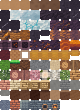
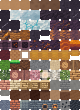
Carvão mineral do Orvalis pela Minecraft Wiki (auditoria #34, ADR 0122, v0.189.0)
Aprovado pelo dono do produto: minério de carvão na pedra (gerador do Orvalis v2, veios da
Wiki adaptados), Carvão e Bloco de Carvão com combustível de 80 s e 800 s, receitas e Tocha com
Carvão. O minério só solta Carvão com picareta e não tem item próprio.

Claude-Session: https://claude.ai/code/session_01KGdgoniDf5SwPMM31qtkm2

Changed region(s): [[0.75, 0.9, 1.0, 1.0]]

diff --git a/src/titan/items.ts b/src/titan/items.ts
@@ -4,7 +4,7 @@ import { BLOCK_NAMES, isCarpentry, isMarco, isPanel, isWorkbench, T } from './vo
  * Itens do Titã (ADR 0040). O id é o índice do sprite no atlas da hotbar + 1 (`render/art/titan.ts`): a ordem do atlas não depende da ordem dos espaços da barra.
  * Os quatro primeiros coincidem com os ids de bloco `T.SAND … T.FROST`.
  */
-export const Item = { SAND: 1, DAMP_SAND: 2, DARK_ROCK: 3, FROST: 4, ROCK_SHARD: 5, FROST_SHARD: 6, CAPSULE: 7, LANTERN: 8, WORKBENCH: 9, ICE_LENS: 10, EMBER: 11, GLASS_REED: 12, SLAB: 13, MARCO: 14, PAINEL: 15, NOZ: 16, COPPER_SHARD: 17, COPPER_INGOT: 18, DRY_REED: 19, STONE_PICK: 20, BRAZIER: 21, STONE_DAGGER: 22, COPPER_PICK: 23, COPPER_DAGGER: 24, PLATE: 25, CARAPACE: 26, RAW_MEAT: 27, COOKED_MEAT: 28, EMBER_BLOCK: 29, NOZ_TORRADA: 30, ESTEIRA: 31, ESCADA: 32, BAU: 33, CAMA: 34, BALDE: 35, BALDE_CHEIO: 36, BLOCO_JUNCO: 37, LAJE_JUNCO: 38, DEGRAU_JUNCO: 39, CADEIRA_JUNCO: 40, PORTA_JUNCO: 41, GRASS: 42, DIRT: 43, STONE: 44, BEACH: 45, LOG_OAK: 46, LEAVES_OAK: 47, LOG_CHERRY: 48, LEAVES_CHERRY: 49, LOG_BIRCH: 50, LEAVES_BIRCH: 51, TABUA_CARVALHO: 52, TABUA_CEREJEIRA: 53, TABUA_BETULA: 54, HASTE: 55, MESA_CARPINTARIA: 56, PEDRA_LISA: 57, TIJOLO_PEDRA: 58, LAJE_PEDRA: 59, DEGRAU_PEDRA: 60, MURETA_PEDRA: 61, TERRA_ARADA_SECA: 62, TERRA_ARADA_UMIDA: 63, CAMINHO_TERRA: 64, TERRA_INFERTIL: 65, BLOCO_ARGILA: 66, BLOCO_TIJOLOS: 67, BOLA_ARGILA: 68, TIJOLO: 69, PICARETA_MADEIRA: 70, PICARETA_PEDRA: 71, MACHADO_MADEIRA: 72, MACHADO_PEDRA: 73, PA_MADEIRA: 74, PA_PEDRA: 75, ENXADA_MADEIRA: 76, ENXADA_PEDRA: 77, SEMENTE_TRIGO: 78, TRIGO: 79, CENOURA: 80, BATATA: 81, TOMATE: 82, FORNALHA: 83, CARVAO_VEGETAL: 84, TOCHA: 85 } as const;
+export const Item = { SAND: 1, DAMP_SAND: 2, DARK_ROCK: 3, FROST: 4, ROCK_SHARD: 5, FROST_SHARD: 6, CAPSULE: 7, LANTERN: 8, WORKBENCH: 9, ICE_LENS: 10, EMBER: 11, GLASS_REED: 12, SLAB: 13, MARCO: 14, PAINEL: 15, NOZ: 16, COPPER_SHARD: 17, COPPER_INGOT: 18, DRY_REED: 19, STONE_PICK: 20, BRAZIER: 21, STONE_DAGGER: 22, COPPER_PICK: 23, COPPER_DAGGER: 24, PLATE: 25, CARAPACE: 26, RAW_MEAT: 27, COOKED_MEAT: 28, EMBER_BLOCK: 29, NOZ_TORRADA: 30, ESTEIRA: 31, ESCADA: 32, BAU: 33, CAMA: 34, BALDE: 35, BALDE_CHEIO: 36, BLOCO_JUNCO: 37, LAJE_JUNCO: 38, DEGRAU_JUNCO: 39, CADEIRA_JUNCO: 40, PORTA_JUNCO: 41, GRASS: 42, DIRT: 43, STONE: 44, BEACH: 45, LOG_OAK: 46, LEAVES_OAK: 47, LOG_CHERRY: 48, LEAVES_CHERRY: 49, LOG_BIRCH: 50, LEAVES_BIRCH: 51, TABUA_CARVALHO: 52, TABUA_CEREJEIRA: 53, TABUA_BETULA: 54, HASTE: 55, MESA_CARPINTARIA: 56, PEDRA_LISA: 57, TIJOLO_PEDRA: 58, LAJE_PEDRA: 59, DEGRAU_PEDRA: 60, MURETA_PEDRA: 61, TERRA_ARADA_SECA: 62, TERRA_ARADA_UMIDA: 63, CAMINHO_TERRA: 64, TERRA_INFERTIL: 65, BLOCO_ARGILA: 66, BLOCO_TIJOLOS: 67, BOLA_ARGILA: 68, TIJOLO: 69, PICARETA_MADEIRA: 70, PICARETA_PEDRA: 71, MACHADO_MADEIRA: 72, MACHADO_PEDRA: 73, PA_MADEIRA: 74, PA_PEDRA: 75, ENXADA_MADEIRA: 76, ENXADA_PEDRA: 77, SEMENTE_TRIGO: 78, TRIGO: 79, CENOURA: 80, BATATA: 81, TOMATE: 82, FORNALHA: 83, CARVAO_VEGETAL: 84, TOCHA: 85, CARVAO: 87, BLOCO_CARVAO: 88 } as const;
 export type ItemId = (typeof Item)[keyof typeof Item];
 
 export const ITEM_NAMES: Record<number, string> = {
@@ -12,19 +12,19 @@ export const ITEM_NAMES: Record<number, string> = {
   5: 'Fragmento de rocha', 6: 'Fragmento de gelo', 7: 'Cápsula de luz', 8: 'Lanterna da margem', 9: 'Mesa de Trabalho', 10: 'Lente de Gelo', 11: 'Brasa de âmbar', 12: 'Junco de vidro', 13: 'Laje de rocha', 14: 'Marco de Margem', 15: 'Painel de Junco', 16: 'Noz de Duna', 17: 'Fragmento de Cobre de Duna', 18: 'Lingote de Cobre de Duna', 19: 'Haste Seca de Junco', 20: 'Picareta de Rocha', 21: 'Braseiro de Rocha', 22: 'Adaga de Rocha', 23: 'Picareta de Cobre', 24: 'Adaga de Cobre', 25: 'Placa de Carapaça', 26: 'Revestimento de Carapaça', 27: 'Carne Crua de Farejador', 28: 'Carne Assada de Farejador', 29: 'Bloco de Âmbar Compactado', 30: 'Noz Torrada', 31: 'Esteira de Junco', 32: 'Escada de Junco', 33: 'Baú de Rocha e Junco', 34: 'Cama de Junco', 35: 'Balde de Cobre', 36: 'Balde de Cobre (cheio)', 37: 'Bloco de Junco', 38: 'Laje de Junco', 39: 'Degrau de Junco', 40: 'Cadeira de Junco', 41: 'Porta de Junco',
 };
 /** Itens-bloco do Orvalis em voxel (ADR 0105, ids 42–51): o item é o próprio bloco (mesma ordem de `T.GRASS … T.LEAVES_BIRCH`). */
-export const ORVALIS_ITEM_BLOCKS: Readonly<Record<number, number>> = { [Item.GRASS]: T.GRASS, [Item.DIRT]: T.DIRT, [Item.STONE]: T.STONE, [Item.BEACH]: T.BEACH, [Item.LOG_OAK]: T.LOG_OAK, [Item.LEAVES_OAK]: T.LEAVES_OAK, [Item.LOG_CHERRY]: T.LOG_CHERRY, [Item.LEAVES_CHERRY]: T.LEAVES_CHERRY, [Item.LOG_BIRCH]: T.LOG_BIRCH, [Item.LEAVES_BIRCH]: T.LEAVES_BIRCH, [Item.TABUA_CARVALHO]: T.PLANKS_OAK, [Item.TABUA_CEREJEIRA]: T.PLANKS_CHERRY, [Item.TABUA_BETULA]: T.PLANKS_BIRCH, [Item.MESA_CARPINTARIA]: T.CARPENTRY, [Item.PEDRA_LISA]: T.STONE_SMOOTH, [Item.TIJOLO_PEDRA]: T.STONE_BRICK, [Item.LAJE_PEDRA]: T.STONE_SLAB, [Item.TERRA_ARADA_SECA]: T.FARMLAND_DRY, [Item.TERRA_ARADA_UMIDA]: T.FARMLAND_WET, [Item.CAMINHO_TERRA]: T.PATH, [Item.TERRA_INFERTIL]: T.DIRT_INFERTILE, [Item.BLOCO_ARGILA]: T.CLAY_BLOCK, [Item.BLOCO_TIJOLOS]: T.BRICK_BLOCK, [Item.FORNALHA]: T.FURNACE, [Item.TOCHA]: T.TORCH };
-const ORVALIS_BLOCK_ITEMS: Readonly<Record<number, number>> = { ...Object.fromEntries(Object.entries(ORVALIS_ITEM_BLOCKS).map(([item, block]) => [block, Number(item)])), ...Object.fromEntries(Array.from({ length: 8 }, (_, t) => [T.FURNACE + t, Item.FORNALHA])), ...Object.fromEntries(Array.from({ length: 5 }, (_, t) => [T.TORCH + t, Item.TOCHA])) }; // a fornalha acesa e os giros devolvem a mesma Fornalha; a tocha de parede, a mesma Tocha // a fornalha acesa e os giros devolvem a mesma Fornalha
+export const ORVALIS_ITEM_BLOCKS: Readonly<Record<number, number>> = { [Item.GRASS]: T.GRASS, [Item.DIRT]: T.DIRT, [Item.STONE]: T.STONE, [Item.BEACH]: T.BEACH, [Item.LOG_OAK]: T.LOG_OAK, [Item.LEAVES_OAK]: T.LEAVES_OAK, [Item.LOG_CHERRY]: T.LOG_CHERRY, [Item.LEAVES_CHERRY]: T.LEAVES_CHERRY, [Item.LOG_BIRCH]: T.LOG_BIRCH, [Item.LEAVES_BIRCH]: T.LEAVES_BIRCH, [Item.TABUA_CARVALHO]: T.PLANKS_OAK, [Item.TABUA_CEREJEIRA]: T.PLANKS_CHERRY, [Item.TABUA_BETULA]: T.PLANKS_BIRCH, [Item.MESA_CARPINTARIA]: T.CARPENTRY, [Item.PEDRA_LISA]: T.STONE_SMOOTH, [Item.TIJOLO_PEDRA]: T.STONE_BRICK, [Item.LAJE_PEDRA]: T.STONE_SLAB, [Item.TERRA_ARADA_SECA]: T.FARMLAND_DRY, [Item.TERRA_ARADA_UMIDA]: T.FARMLAND_WET, [Item.CAMINHO_TERRA]: T.PATH, [Item.TERRA_INFERTIL]: T.DIRT_INFERTILE, [Item.BLOCO_ARGILA]: T.CLAY_BLOCK, [Item.BLOCO_TIJOLOS]: T.BRICK_BLOCK, [Item.FORNALHA]: T.FURNACE, [Item.TOCHA]: T.TORCH, [Item.BLOCO_CARVAO]: T.COAL_BLOCK };
+const ORVALIS_BLOCK_ITEMS: Readonly<Record<number, number>> = { ...Object.fromEntries(Object.entries(ORVALIS_ITEM_BLOCKS).map(([item, block]) => [block, Number(item)])), ...Object.fromEntries(Array.from({ length: 8 }, (_, t) => [T.FURNACE + t, Item.FORNALHA])), ...Object.fromEntries(Array.from({ length: 5 }, (_, t) => [T.TORCH + t, Item.TOCHA])), [T.COAL_ORE]: Item.CARVAO }; // o minério solta Carvão (nunca o bloco, sem toque de seda, ADR 0122) // a fornalha acesa e os giros devolvem a mesma Fornalha; a tocha de parede, a mesma Tocha // a fornalha acesa e os giros devolvem a mesma Fornalha
 for (const [item, block] of Object.entries(ORVALIS_ITEM_BLOCKS)) ITEM_NAMES[Number(item)] = BLOCK_NAMES[block];
 Object.assign(ITEM_NAMES, { 70: 'Picareta de Madeira', 71: 'Picareta de Pedra', 72: 'Machado de Madeira', 73: 'Machado de Pedra', 74: 'Pá de Madeira', 75: 'Pá de Pedra', 76: 'Enxada de Madeira', 77: 'Enxada de Pedra' }); // ferramentas do Orvalis (ADR 0112)
 Object.assign(ITEM_NAMES, { 78: 'Semente de Trigo', 79: 'Trigo', 80: 'Cenoura', 81: 'Batata', 82: 'Tomate' }); // horta (ADR 0113)
-ITEM_NAMES[Item.CARVAO_VEGETAL] = 'Carvão Vegetal'; // item sem bloco (ADR 0120; ícone provisório)
+ITEM_NAMES[Item.CARVAO_VEGETAL] = 'Carvão Vegetal'; ITEM_NAMES[Item.CARVAO] = 'Carvão'; // item sem bloco (ADR 0122) // item sem bloco (ADR 0120; ícone provisório)
 ITEM_NAMES[Item.BOLA_ARGILA] = 'Bola de Argila'; ITEM_NAMES[Item.TIJOLO] = 'Tijolo'; // itens sem bloco (ADR 0111)
 ITEM_NAMES[Item.MURETA_PEDRA] = 'Mureta de Pedra'; // a conexão vem dos vizinhos (ADR 0110)
 ITEM_NAMES[Item.DEGRAU_PEDRA] = 'Degrau de Pedra'; // sem entrada em ORVALIS_ITEM_BLOCKS: o giro vem do olhar (ADR 0109)
 ITEM_NAMES[Item.HASTE] = 'Haste de Madeira'; // item sem bloco (ADR 0107)
 /** Pilhas: blocos, fragmentos, lente e brasa até 64; cápsula (legada, id reservado), lanterna e mesa até 1 (a mesa 1 por espaço: é uma peça grande). */
 export const maxStack = (item: number): number => (item === Item.CAPSULE || item === Item.LANTERN || item === Item.WORKBENCH || isBucket(item) || isTool(item) ? 1 : 64);
-export const isItem = (n: unknown): n is ItemId => Number.isInteger(n) && (n as number) >= 1 && (n as number) <= 85;
+export const isItem = (n: unknown): n is ItemId => Number.isInteger(n) && (n as number) >= 1 && (n as number) <= 88 && n !== 86; // 86 é só a textura da Tocha de parede no atlas (ADR 0121)
 /** Balde de Cobre (ADR 0091): vazio recolhe uma célula do lago, cheio a despeja. Pergunte aqui, nunca compare ids soltos. */
 export const isBucket = (item: number | undefined | null): boolean => item === Item.BALDE || item === Item.BALDE_CHEIO;
 

diff --git a/src/titan/orvalis/carvao.test.ts b/src/titan/orvalis/carvao.test.ts
@@ -1,0 +1,86 @@
+import { describe, expect, it } from 'vitest';
+import { breakOrCollect } from '../actions';
+import { breakTotalMs, blockToolOf, HOLD_MS } from '../breaking';
+import { FUEL_TIME_S, furnaceFromData, FURNACE_RULES, newFurnace, tickFurnace } from '../furnace';
+import { blockOfItem, isItem, Item, itemOfBlock, ITEM_NAMES, maxStack } from '../items';
+import { craft, recipeById } from '../recipes';
+import { MemoryTitanStorage } from '../save';
+import { openSession } from '../session';
+import { surfaceOf } from '../sounds';
+import { isFull, T, tileFor, tileIndex, blocksLight } from '../voxel';
+import { ORVALIS_GENERATOR_VERSION, ORVALIS_ORE_RULES, OrvalisGenerator, orvalisGeneratorFor } from './generator';
+
+/** Carvão mineral do Orvalis (ADR 0122, auditoria #34): minério, Carvão e Bloco de Carvão pela Minecraft Wiki. */
+const open = async () => ({ s: await openSession(new MemoryTitanStorage(), 42, () => 1, orvalisGeneratorFor, ORVALIS_GENERATOR_VERSION, (sd, v) => new OrvalisGenerator(sd, v)) });
+const Y = 150;
+const spot = (s: Awaited<ReturnType<typeof open>>['s']) => { const a = s.volume.gen.arrival, x = Math.floor(a.x) + 6, z = Math.floor(a.z) + 6; s.volume.set(x, Y, z, T.COAL_ORE); s.volume.set(x, Y + 1, z, T.AIR); return { x, z }; };
+
+describe('carvão: blocos, itens e regras', () => {
+  it('blocos 150 (minério) e 151 (bloco): cubos opacos com tile próprio, picareta, som de rocha; o item 87 é o Carvão e o 88, o Bloco', () => {
+    expect(T.COAL_ORE).toBe(150); expect(T.COAL_BLOCK).toBe(151);
+    for (const id of [T.COAL_ORE, T.COAL_BLOCK]) { expect(isFull(id) && blocksLight(id)).toBe(true); expect(blockToolOf(id)).toBe('pick'); expect(surfaceOf(id)).toBe('rock'); }
+    expect(tileFor(T.COAL_ORE, 'top')).toBe(tileIndex('orvalis/minerio-carvao')); expect(tileFor(T.COAL_BLOCK, 'side')).toBe(tileIndex('orvalis/bloco-carvao'));
+    expect(Item.CARVAO).toBe(87); expect(Item.BLOCO_CARVAO).toBe(88); expect(isItem(87) && isItem(88)).toBe(true); expect(isItem(86) || isItem(89)).toBe(false);
+    expect(ITEM_NAMES[87]).toBe('Carvão'); expect(ITEM_NAMES[88]).toBe('Bloco de Carvão'); expect(maxStack(87)).toBe(64);
+    expect(blockOfItem(Item.BLOCO_CARVAO)).toBe(T.COAL_BLOCK); expect(blockOfItem(Item.CARVAO)).toBeNull();
+    expect(itemOfBlock(T.COAL_ORE)).toBe(Item.CARVAO); expect(itemOfBlock(T.COAL_BLOCK)).toBe(Item.BLOCO_CARVAO); // o minério solta Carvão, nunca o bloco
+  });
+  it('dureza da Wiki: minério 3 (mão 15 s, picareta de madeira 2,25 s, de pedra 1,15 s) e bloco 5', () => {
+    expect(breakTotalMs('block', T.COAL_ORE)).toBe(HOLD_MS + 15000); expect(breakTotalMs('block', T.COAL_ORE, 'wood')).toBe(HOLD_MS + 2250); expect(breakTotalMs('block', T.COAL_ORE, 'rock')).toBe(HOLD_MS + 1150);
+    expect(breakTotalMs('block', T.COAL_BLOCK, 'rock')).toBe(HOLD_MS + 1900); // 5 × 1,5 ÷ 4 = 1,875 s → 1,9 s (ticks de 50 ms)
+  });
+  it('receitas: 9 Carvão ↔ Bloco; Tocha também com Carvão (+ haste → 4); combustível 80 s e 800 s', async () => {
+    const r = (id: string) => recipeById(id)!;
+    expect(r('bloco-carvao').ingredients).toEqual([{ item: Item.CARVAO, count: 9 }]); expect(r('bloco-carvao').station).toBe('workbench');
+    expect(r('carvao-do-bloco').result).toEqual({ item: Item.CARVAO, count: 9 }); expect(r('carvao-do-bloco').station).toBe('personal');
+    expect(r('tocha-carvao').ingredients).toEqual([{ item: Item.CARVAO, count: 1 }, { item: Item.HASTE, count: 1 }]); expect(r('tocha-carvao').result).toEqual({ item: Item.TOCHA, count: 4 });
+    for (const id of ['bloco-carvao', 'carvao-do-bloco', 'tocha-carvao']) expect(r(id).world).toBe('orvalis');
+    const { s } = await open(); s.inventory.add(Item.CARVAO, 10); s.inventory.add(Item.HASTE, 1);
+    expect(craft(s.inventory, r('tocha-carvao'), null).ok).toBe(true); expect(s.inventory.total(Item.TOCHA)).toBe(4); expect(s.inventory.total(Item.CARVAO)).toBe(9);
+    expect(FUEL_TIME_S[Item.CARVAO]).toBe(80); expect(FUEL_TIME_S[Item.BLOCO_CARVAO]).toBe(800);
+  });
+  it('o bloco de carvão queima 800 s (80 preparações) e o saldo grava e volta inteiro', () => {
+    const f = newFurnace(); f.input = { item: Item.LOG_OAK, count: 64 }; f.fuel = { item: Item.BLOCO_CARVAO, count: 1 };
+    tickFurnace(f, 10, FURNACE_RULES); expect(f.output).toEqual({ item: Item.CARVAO_VEGETAL, count: 1 }); expect(f.burnTotal).toBe(800); expect(f.burnLeft).toBeCloseTo(790, 5);
+    expect(furnaceFromData(JSON.parse(JSON.stringify({ b: f.burnLeft, t: f.burnTotal, c: 0 })), FURNACE_RULES).burnLeft).toBeCloseTo(790, 5); // o limite do save subiu de 600 para 800
+  });
+});
+
+describe('carvão: quebrar o minério', () => {
+  it('com picareta (qualquer) solta 1 Carvão; sem picareta quebra e não solta nada (Wiki)', async () => {
+    const a = await open(), p = spot(a.s);
+    expect(breakOrCollect(a.s, { x: p.x, y: Y, z: p.z, nx: 0, ny: 1, nz: 0 }).ok).toBe(true);
+    expect([...a.s.drops.values()].length).toBe(0); expect(a.s.volume.get(p.x, Y, p.z)).toBe(T.AIR);
+    const b = await open(), q = spot(b.s); b.s.inventory.add(Item.PICARETA_MADEIRA, 1); b.s.inventory.move([...Array(36).keys()].find((i) => b.s.inventory.get(i)?.item === Item.PICARETA_MADEIRA)!, 0); b.s.selected = 0;
+    expect(breakOrCollect(b.s, { x: q.x, y: Y, z: q.z, nx: 0, ny: 1, nz: 0 }).ok).toBe(true);
+    expect([...b.s.drops.values()].filter((d) => d.item === Item.CARVAO).length).toBe(1);
+  });
+});
+
+describe('carvão: geração (gerador v2)', () => {
+  const sample = (g: OrvalisGenerator): { ore: number; stone: number; minY: number; maxY: number; shallow: number; air: number } => {
+    let ore = 0, stone = 0, minY = 999, maxY = -999, shallow = 0, air = 0;
+    for (let x = -60; x < 60; x += 2) for (let z = -60; z < 60; z += 2) {
+      const top = g.column(x, z).top;
+      for (let y = -60; y <= 100; y++) {
+        const b = g.blockAt(x, y, z);
+        if (b === T.COAL_ORE) { ore++; minY = Math.min(minY, y); maxY = Math.max(maxY, y); if (y >= top - 3) shallow++; if (y > top) air++; } else if (b === T.STONE) stone++;
+      }
+    }
+    return { ore, stone, minY, maxY, shallow, air };
+  };
+  it('a v2 gera veios só dentro da pedra (abaixo do subsolo), na faixa da regra e com densidade parecida com a do Minecraft (~1 %); a v1 não tem minério', () => {
+    expect(ORVALIS_GENERATOR_VERSION).toBe(2); expect(ORVALIS_ORE_RULES[0]).toMatchObject({ blockId: T.COAL_ORE, veinsPerChunk: 20, minY: -60, maxY: 90, peakY: 40 });
+    const g = new OrvalisGenerator(42, 2), r = sample(g), share = r.ore / (r.ore + r.stone);
+    expect(r.ore).toBeGreaterThan(500); expect(share).toBeGreaterThan(0.003); expect(share).toBeLessThan(0.05);
+    expect(r.shallow).toBe(0); expect(r.air).toBe(0); expect(r.minY).toBeGreaterThanOrEqual(-60); expect(r.maxY).toBeLessThanOrEqual(90 + 30); // um veio pode passar um pouco do limite de partida
+    expect(sample(new OrvalisGenerator(42, 1)).ore).toBe(0);
+  });
+  it('determinístico e independente da ordem de leitura; outra seed desenha outros veios', () => {
+    const a = new OrvalisGenerator(7, 2), b = new OrvalisGenerator(7, 2);
+    const cells: Array<[number, number, number]> = []; for (let i = 0; i < 400; i++) cells.push([(i * 37) % 120 - 60, (i * 53) % 150 - 60, (i * 71) % 120 - 60]);
+    const fwd = cells.map(([x, y, z]) => a.blockAt(x, y, z)), back = [...cells].reverse().map(([x, y, z]) => b.blockAt(x, y, z)).reverse();
+    expect(fwd).toEqual(back);
+    const c = new OrvalisGenerator(8, 2); expect(sample(c).ore).not.toBe(sample(a).ore);
+  });
+});

diff --git a/src/titan/voxel.ts b/src/titan/voxel.ts
@@ -22,9 +22,9 @@ export const REGION_MIN = REGION_LEGACY.min;
 export const REGION_MAX = REGION_LEGACY.max;
 
 /** Ids de bloco (um byte; 0 = ar). */
-export const T = { AIR: 0, SAND: 1, DAMP_SAND: 2, DARK_ROCK: 3, FROST: 4, LAKE: 5, BEDROCK: 6, LANTERN: 7, VEIN_ROCK: 8, VEIN_FROST: 9, WORKBENCH: 10, EMBER: 11, SLAB: 12, WORKBENCH_90: 13, WORKBENCH_180: 14, WORKBENCH_270: 15, SLAB_TOP: 16, SLAB_DOUBLE: 17, MARCO: 18, MARCO_90: 19, MARCO_180: 20, MARCO_270: 21, PAINEL: 22, PAINEL_Z: 23, VEIN_COPPER: 24, BRAZIER: 25, BRAZIER_LIT: 26, CARAPACE: 27, EMBER_VEIN: 28, EMBER_BLOCK: 29, MAT: 30, LADDER: 31, LADDER_90: 32, LADDER_180: 33, LADDER_270: 34, CHEST: 35, CHEST_90: 36, CHEST_180: 37, CHEST_270: 38, BED: 39, BED_90: 40, BED_180: 41, BED_270: 42, BED_HEAD: 43, BED_HEAD_90: 44, BED_HEAD_180: 45, BED_HEAD_270: 46, REED_BLOCK: 47, REED_SLAB: 48, REED_SLAB_TOP: 49, REED_STAIR: 50, REED_STAIR_90: 51, REED_STAIR_180: 52, REED_STAIR_270: 53, REED_CHAIR: 54, REED_CHAIR_90: 55, REED_CHAIR_180: 56, REED_CHAIR_270: 57, DOOR: 58, DOOR_LAST: 89, GRASS: 90, DIRT: 91, STONE: 92, BEACH: 93, LOG_OAK: 94, LEAVES_OAK: 95, LOG_CHERRY: 96, LEAVES_CHERRY: 97, LOG_BIRCH: 98, LEAVES_BIRCH: 99, PLANKS_OAK: 100, PLANKS_CHERRY: 101, PLANKS_BIRCH: 102, CARPENTRY: 103, CARPENTRY_90: 104, CARPENTRY_180: 105, CARPENTRY_270: 106, STONE_SMOOTH: 107, STONE_BRICK: 108, STONE_SLAB: 109, STONE_SLAB_TOP: 110, STONE_STAIR: 111, STONE_STAIR_90: 112, STONE_STAIR_180: 113, STONE_STAIR_270: 114, STONE_WALL: 115, STONE_WALL_LAST: 130, FARMLAND_DRY: 131, FARMLAND_WET: 132, PATH: 133, DIRT_INFERTILE: 134, CLAY_BLOCK: 135, BRICK_BLOCK: 136, FURNACE: 137, FURNACE_90: 138, FURNACE_180: 139, FURNACE_270: 140, FURNACE_LIT: 141, FURNACE_LIT_90: 142, FURNACE_LIT_180: 143, FURNACE_LIT_270: 144, TORCH: 145, TORCH_WALL: 146, TORCH_WALL_90: 147, TORCH_WALL_180: 148, TORCH_WALL_270: 149 } as const;
+export const T = { AIR: 0, SAND: 1, DAMP_SAND: 2, DARK_ROCK: 3, FROST: 4, LAKE: 5, BEDROCK: 6, LANTERN: 7, VEIN_ROCK: 8, VEIN_FROST: 9, WORKBENCH: 10, EMBER: 11, SLAB: 12, WORKBENCH_90: 13, WORKBENCH_180: 14, WORKBENCH_270: 15, SLAB_TOP: 16, SLAB_DOUBLE: 17, MARCO: 18, MARCO_90: 19, MARCO_180: 20, MARCO_270: 21, PAINEL: 22, PAINEL_Z: 23, VEIN_COPPER: 24, BRAZIER: 25, BRAZIER_LIT: 26, CARAPACE: 27, EMBER_VEIN: 28, EMBER_BLOCK: 29, MAT: 30, LADDER: 31, LADDER_90: 32, LADDER_180: 33, LADDER_270: 34, CHEST: 35, CHEST_90: 36, CHEST_180: 37, CHEST_270: 38, BED: 39, BED_90: 40, BED_180: 41, BED_270: 42, BED_HEAD: 43, BED_HEAD_90: 44, BED_HEAD_180: 45, BED_HEAD_270: 46, REED_BLOCK: 47, REED_SLAB: 48, REED_SLAB_TOP: 49, REED_STAIR: 50, REED_STAIR_90: 51, REED_STAIR_180: 52, REED_STAIR_270: 53, REED_CHAIR: 54, REED_CHAIR_90: 55, REED_CHAIR_180: 56, REED_CHAIR_270: 57, DOOR: 58, DOOR_LAST: 89, GRASS: 90, DIRT: 91, STONE: 92, BEACH: 93, LOG_OAK: 94, LEAVES_OAK: 95, LOG_CHERRY: 96, LEAVES_CHERRY: 97, LOG_BIRCH: 98, LEAVES_BIRCH: 99, PLANKS_OAK: 100, PLANKS_CHERRY: 101, PLANKS_BIRCH: 102, CARPENTRY: 103, CARPENTRY_90: 104, CARPENTRY_180: 105, CARPENTRY_270: 106, STONE_SMOOTH: 107, STONE_BRICK: 108, STONE_SLAB: 109, STONE_SLAB_TOP: 110, STONE_STAIR: 111, STONE_STAIR_90: 112, STONE_STAIR_180: 113, STONE_STAIR_270: 114, STONE_WALL: 115, STONE_WALL_LAST: 130, FARMLAND_DRY: 131, FARMLAND_WET: 132, PATH: 133, DIRT_INFERTILE: 134, CLAY_BLOCK: 135, BRICK_BLOCK: 136, FURNACE: 137, FURNACE_90: 138, FURNACE_180: 139, FURNACE_270: 140, FURNACE_LIT: 141, FURNACE_LIT_90: 142, FURNACE_LIT_180: 143, FURNACE_LIT_270: 144, TORCH: 145, TORCH_WALL: 146, TORCH_WALL_90: 147, TORCH_WALL_180: 148, TORCH_WALL_270: 149, COAL_ORE: 150, COAL_BLOCK: 151 } as const;
 /** Maior id de bloco (o carregamento do save descarta ids acima disto). */
-export const T_MAX = T.TORCH_WALL_270;
+export const T_MAX = T.COAL_BLOCK;
 export type TitanBlock = (typeof T)[keyof typeof T];
 
 export const BLOCK_NAMES: Record<number, string> = { 1: 'Areia ocre', 2: 'Areia úmida', 3: 'Rocha escura', 4: 'Gelo fosco', 5: 'Lago escuro', 6: 'Rocha-mãe', 7: 'Lanterna da margem', 8: 'Rocha com veio', 9: 'Gelo com veio', 10: 'Mesa de Trabalho', 11: 'Brasa de âmbar', 12: 'Laje de rocha', 13: 'Mesa de Trabalho', 14: 'Mesa de Trabalho', 15: 'Mesa de Trabalho', 16: 'Laje de rocha', 17: 'Laje dupla de rocha', 18: 'Marco de Margem', 19: 'Marco de Margem', 20: 'Marco de Margem', 21: 'Marco de Margem', 22: 'Painel de Junco', 23: 'Painel de Junco', 24: 'Veio de Cobre de Duna', 25: 'Braseiro de Rocha', 26: 'Braseiro de Rocha (aceso)', 27: 'Revestimento de Carapaça', 28: 'Veio de Âmbar', 29: 'Bloco de Âmbar Compactado', 30: 'Esteira de Junco', 31: 'Escada de Junco', 32: 'Escada de Junco', 33: 'Escada de Junco', 34: 'Escada de Junco', 35: 'Baú de Rocha e Junco', 36: 'Baú de Rocha e Junco', 37: 'Baú de Rocha e Junco', 38: 'Baú de Rocha e Junco', 39: 'Cama de Junco', 40: 'Cama de Junco', 41: 'Cama de Junco', 42: 'Cama de Junco', 43: 'Cama de Junco', 44: 'Cama de Junco', 45: 'Cama de Junco', 46: 'Cama de Junco', 47: 'Bloco de Junco', 48: 'Laje de Junco', 49: 'Laje de Junco', 50: 'Degrau de Junco', 51: 'Degrau de Junco', 52: 'Degrau de Junco', 53: 'Degrau de Junco', 54: 'Cadeira de Junco', 55: 'Cadeira de Junco', 56: 'Cadeira de Junco', 57: 'Cadeira de Junco' };
@@ -32,6 +32,7 @@ for (let id = T.DOOR; id <= T.DOOR_LAST; id++) BLOCK_NAMES[id] = 'Porta de Junco
 /** Blocos do Orvalis em voxel (ADR 0105): terreno de floresta, praia e árvores. Água = `T.LAKE` (líquido do motor, com a arte da água do Orvalis). */
 for (let t = 0; t < 4; t++) { BLOCK_NAMES[T.FURNACE + t] = 'Fornalha'; BLOCK_NAMES[T.FURNACE_LIT + t] = 'Fornalha acesa'; }
 for (let id = T.TORCH; id <= T.TORCH_WALL_270; id++) BLOCK_NAMES[id] = 'Tocha';
+BLOCK_NAMES[T.COAL_ORE] = 'Minério de Carvão'; BLOCK_NAMES[T.COAL_BLOCK] = 'Bloco de Carvão';
 Object.assign(BLOCK_NAMES, { 90: 'Terra com Grama', 91: 'Terra', 92: 'Pedra', 93: 'Areia da Praia', 94: 'Tora de Carvalho', 95: 'Folhas de Carvalho', 96: 'Tora de Cerejeira', 97: 'Folhas de Cerejeira', 98: 'Tora de Bétula', 99: 'Folhas de Bétula' });
 /** Madeira básica do Orvalis em voxel (ADR 0107): tábuas de 3 madeiras e a Mesa de Carpintaria (4 ids, o giro no id; a frente fica voltada para quem a coloca, como o baú). */
 Object.assign(BLOCK_NAMES, { 100: 'Tábuas de Carvalho', 101: 'Tábuas de Cerejeira', 102: 'Tábuas de Bétula', 103: 'Mesa de Carpintaria', 104: 'Mesa de Carpintaria', 105: 'Mesa de Carpintaria', 106: 'Mesa de Carpintaria' });
@@ -336,6 +337,8 @@ BLOCK_TILES[T.PATH] = ot('caminho-topo', 'caminho-lateral', 'terra');
 BLOCK_TILES[T.DIRT_INFERTILE] = ot('terra-infertil');
 BLOCK_TILES[T.CLAY_BLOCK] = ot('bloco-argila');
 BLOCK_TILES[T.BRICK_BLOCK] = ot('bloco-tijolos');
+BLOCK_TILES[T.COAL_ORE] = ot('minerio-carvao'); // minério de carvão e bloco de carvão do Orvalis (ADR 0122)
+BLOCK_TILES[T.COAL_BLOCK] = ot('bloco-carvao');
 for (let t = 0; t < 8; t++) BLOCK_TILES[T.FURNACE + t] = ot('fornalha-topo', 'fornalha-lateral', 'fornalha-topo'); // a frente (apagada ou acesa) tem tile próprio (`tileForFace`)
 for (let t = 0; t < 4; t++) BLOCK_TILES[T.CARPENTRY + t] = [tileIndex('orvalis/mesa-topo'), tileIndex('orvalis/mesa-lateral'), tileIndex('orvalis/tabua-carvalho')]; // a base é de tábuas; a frente tem tile próprio (`tileForFace`)
 // Família do Junco (ADR 0100): o bloco usa a trama nas seis faces; a laje, o topo de 32 × 32 e a lateral de 32 × 16 (metade de cima do tile)

diff --git a/src/titan/orvalis/generator.ts b/src/titan/orvalis/generator.ts
@@ -3,6 +3,7 @@ import { hash2 } from '../../world/random';
 import type { Arrival, Column } from '../generator';
 import { derive } from '../generator';
 import type { TerrainGen } from '../terrain';
+import { attemptsFor, mulberry32, type OreRule, sampleOreY, veinCells } from '../ores';
 import { inRegion, LAKE_LAST_Y, REGION_V6, type Region, T, Y_MIN } from '../voxel';
 
 /**
@@ -12,10 +13,18 @@ import { inRegion, LAKE_LAST_Y, REGION_V6, type Region, T, Y_MIN } from '../voxe
  *
  * v1: região de 128 × 128 cercada de mar; **Campos** e **Bosque de Sakura**, colinas, montanhas de pedra, rios, praias e árvores (carvalho, bétula e cerejeira) de tora e folhas.
  * O líquido é `T.LAKE` (o do motor; a arte da água é a do Orvalis) com superfície em Y = 64, como no Titã, para que balde, pulo de saída e mergulho valham sem mudança.
+ * v2 (ADR 0122): **veios de minério de carvão** enterrados na pedra (regra da Minecraft Wiki adaptada, `ORVALIS_ORE_RULES`); o resto é a v1.
  */
-export const ORVALIS_GENERATOR_VERSION = 1;
+export const ORVALIS_GENERATOR_VERSION = 2;
 
-const PURPOSE = { relevo: 1, colinas: 2, mar: 3, rio: 4, montanha: 5, bioma: 6, bosque: 7, arvore: 8, chegada: 9 } as const;
+const PURPOSE = { relevo: 1, colinas: 2, mar: 3, rio: 4, montanha: 5, bioma: 6, bosque: 7, arvore: 8, chegada: 9, mina: 10 } as const;
+/**
+ * Veios do Orvalis (v2, ADR 0122), do Minecraft 1.18 adaptados: 20 tentativas por chunk, veios de 4 a 30 blocos (a Wiki fala em 0–37), altura triangular com pico no meio da pedra (Y 40; a Wiki pica em 96 num mundo
+ * de 192 de pedra) e descarte de metade dos blocos expostos ao ar. Só substituem a pedra (abaixo do subsolo de 3 blocos).
+ */
+export const ORVALIS_ORE_RULES: readonly OreRule[] = [
+  { blockId: T.COAL_ORE, veinsPerChunk: 20, veinSize: 4, veinSizeMax: 30, minY: -60, maxY: 90, peakY: 40, airDiscardChance: 0.5 },
+];
 const CLEARING = 6;
 /** Faixa de mar em volta da região: o relevo desce até o fundo do mar nas bordas (a parede invisível do motor fica dentro da água). */
 const SEA_BAND = 20;
@@ -55,6 +64,9 @@ export class OrvalisGenerator implements TerrainGen {
   private readonly cols = new Map<number, Column>();
   private readonly treeCells = new Map<number, Tree | null>();
   private readonly near = new Map<number, readonly Tree[]>();
+  private readonly ores = new Map<number, { id: number; pri: number }>();
+  private readonly oreDone = new Set<number>();
+  private readonly oreReady = new Set<number>();
 
   constructor(readonly seed: number, readonly version: number = ORVALIS_GENERATOR_VERSION) {
     this.nLand = new Noise(derive(seed, PURPOSE.relevo));
@@ -203,7 +215,38 @@ export class OrvalisGenerator implements TerrainGen {
     }
     if (y === c.top) return c.surface;
     if (y >= c.top - 3) return c.sub;
+    if (this.version >= 2) { const o = this.oreAt(x, y, z); if (o !== null) return o; } // v2: minério de carvão enterrado
     return T.STONE;
+  }
+
+  /** Minério da célula (v2), ou `null`. Garante que os 3 × 3 chunks em volta já foram gerados, porque um veio passa de um chunk para o vizinho (o resultado nunca depende da ordem de leitura). */
+  private oreAt(x: number, y: number, z: number): number | null {
+    const cx = x >> 4, cz = z >> 4, rk = (cx + 512) * 1024 + (cz + 512);
+    if (!this.oreReady.has(rk)) {
+      for (let dx = -1; dx <= 1; dx++) for (let dz = -1; dz <= 1; dz++) this.genOreChunk(cx + dx, cz + dz);
+      this.oreReady.add(rk);
+    }
+    return this.ores.get(((x + 4096) * 8192 + (z + 4096)) * 512 + (y + 64))?.id ?? null;
+  }
+
+  private genOreChunk(cx: number, cz: number): void {
+    const ck = (cx + 512) * 1024 + (cz + 512);
+    if (this.oreDone.has(ck)) return;
+    this.oreDone.add(ck);
+    if (!this.inRegion(cx * 16 + 8, cz * 16 + 8) && !this.inRegion(cx * 16, cz * 16) && !this.inRegion(cx * 16 + 15, cz * 16 + 15)) return;
+    const replaceable = (x: number, y: number, z: number): boolean => y > Y_MIN && this.inRegion(x, z) && y < this.column(x, z).top - 3;
+    const exposed = (x: number, y: number, z: number): boolean => [[1, 0, 0], [-1, 0, 0], [0, 1, 0], [0, -1, 0], [0, 0, 1], [0, 0, -1]].some(([dx, dy, dz]) => y + dy > this.column(x + dx, z + dz).top && y + dy > LAKE_LAST_Y);
+    ORVALIS_ORE_RULES.forEach((rule, ri) => {
+      const rng = mulberry32((derive(this.seed, PURPOSE.mina) ^ Math.imul(ck + 1, 0x9e3779b1) ^ Math.imul(ri + 1, 0x85ebca6b)) >>> 0);
+      const n = attemptsFor(rng, rule.veinsPerChunk);
+      for (let k = 0; k < n; k++) {
+        const x = cx * 16 + Math.floor(rng() * 16), z = cz * 16 + Math.floor(rng() * 16), y = sampleOreY(rng, rule), pri = ri * 1e10 + ck * 1000 + k;
+        for (const [vx, vy, vz] of veinCells(rng, x, y, z, rule, replaceable, exposed)) {
+          const key = ((vx + 4096) * 8192 + (vz + 4096)) * 512 + (vy + 64), old = this.ores.get(key);
+          if (!old || pri < old.pri) this.ores.set(key, { id: rule.blockId, pri });
+        }
+      }
+    });
   }
 }
 

diff --git a/src/titan/breaking.ts b/src/titan/breaking.ts
@@ -51,6 +51,7 @@ setH(LEGACY_SAND, T.REED_BLOCK);
 setH(LEGACY_SLAB, T.REED_SLAB, T.REED_SLAB_TOP, T.REED_STAIR, T.REED_STAIR_90, T.REED_STAIR_180, T.REED_STAIR_270, T.REED_CHAIR, T.REED_CHAIR_90, T.REED_CHAIR_180, T.REED_CHAIR_270);
 for (let d = T.DOOR; d <= T.DOOR_LAST; d++) HARDNESS.set(d, LEGACY_SLAB);
 setH(LEGACY_ICE, T.FROST, T.VEIN_FROST, T.EMBER);
+setH(3, T.COAL_ORE); setH(5, T.COAL_BLOCK); // minério de carvão (3) e bloco de carvão (5): picareta (Wiki, ADR 0122)
 setH(0, T.TORCH, T.TORCH_WALL, T.TORCH_WALL_90, T.TORCH_WALL_180, T.TORCH_WALL_270); // tocha: dureza 0, sai assim que o gesto de quebrar começa (Wiki: instantânea)
 setH(LEGACY_COLLECT, T.MARCO, T.MARCO_90, T.MARCO_180, T.MARCO_270, T.PAINEL, T.PAINEL_Z);
 
@@ -73,7 +74,7 @@ export function breakTotalMs(kind: TargetKind, block?: number, pick: Tier | bool
   return HOLD_MS + toTick(ms);
 }
 
-const ROCK_CLASS: ReadonlySet<number> = new Set([T.DARK_ROCK, T.VEIN_ROCK, T.SLAB, T.SLAB_TOP, T.SLAB_DOUBLE, T.BRAZIER, T.BRAZIER_LIT, ...Array.from({ length: 8 }, (_, t) => T.FURNACE + t), T.CARAPACE, T.EMBER_BLOCK, T.STONE, T.STONE_SMOOTH, T.STONE_BRICK, T.STONE_STAIR, T.STONE_STAIR_90, T.STONE_STAIR_180, T.STONE_STAIR_270, T.BRICK_BLOCK, ...Array.from({ length: 16 }, (_, m) => T.STONE_WALL + m), T.STONE_SLAB, T.STONE_SLAB_TOP]);
+const ROCK_CLASS: ReadonlySet<number> = new Set([T.DARK_ROCK, T.VEIN_ROCK, T.SLAB, T.SLAB_TOP, T.SLAB_DOUBLE, T.BRAZIER, T.BRAZIER_LIT, ...Array.from({ length: 8 }, (_, t) => T.FURNACE + t), T.CARAPACE, T.EMBER_BLOCK, T.COAL_ORE, T.COAL_BLOCK, T.STONE, T.STONE_SMOOTH, T.STONE_BRICK, T.STONE_STAIR, T.STONE_STAIR_90, T.STONE_STAIR_180, T.STONE_STAIR_270, T.BRICK_BLOCK, ...Array.from({ length: 16 }, (_, m) => T.STONE_WALL + m), T.STONE_SLAB, T.STONE_SLAB_TOP]);
 
 const WOOD_CLASS: ReadonlySet<number> = new Set([T.LOG_OAK, T.LOG_CHERRY, T.LOG_BIRCH, T.PLANKS_OAK, T.PLANKS_CHERRY, T.PLANKS_BIRCH, T.CARPENTRY, T.CARPENTRY_90, T.CARPENTRY_180, T.CARPENTRY_270, T.WORKBENCH, T.WORKBENCH_90, T.WORKBENCH_180, T.WORKBENCH_270, T.CHEST, T.CHEST_90, T.CHEST_180, T.CHEST_270]);
 const SOIL_CLASS: ReadonlySet<number> = new Set([T.GRASS, T.DIRT, T.BEACH, T.PATH, T.FARMLAND_DRY, T.FARMLAND_WET, T.DIRT_INFERTILE, T.CLAY_BLOCK, T.SAND, T.DAMP_SAND]);

diff --git a/src/titan/recipes.ts b/src/titan/recipes.ts
@@ -80,6 +80,9 @@ export const RECIPES: readonly Recipe[] = [
   { id: 'carvao-cerejeira', name: 'Carvão Vegetal (tora de cerejeira)', group: 'materiais', result: { item: Item.CARVAO_VEGETAL, count: 1 }, ingredients: [{ item: Item.LOG_CHERRY, count: 1 }], station: 'furnace', world: 'orvalis' },
   { id: 'carvao-betula', name: 'Carvão Vegetal (tora de bétula)', group: 'materiais', result: { item: Item.CARVAO_VEGETAL, count: 1 }, ingredients: [{ item: Item.LOG_BIRCH, count: 1 }], station: 'furnace', world: 'orvalis' },
   { id: 'tocha', name: 'Tocha', group: 'utilidades', result: { item: Item.TOCHA, count: 4 }, ingredients: [{ item: Item.CARVAO_VEGETAL, count: 1 }, { item: Item.HASTE, count: 1 }], station: 'personal', world: 'orvalis' }, // Wiki: carvão (vegetal) + graveto → 4 (ADR 0121)
+  { id: 'tocha-carvao', name: 'Tocha (carvão)', group: 'utilidades', result: { item: Item.TOCHA, count: 4 }, ingredients: [{ item: Item.CARVAO, count: 1 }, { item: Item.HASTE, count: 1 }], station: 'personal', world: 'orvalis' }, // Wiki: carvão ou carvão vegetal (ADR 0122)
+  { id: 'bloco-carvao', name: 'Bloco de Carvão', group: 'construcao', result: { item: Item.BLOCO_CARVAO, count: 1 }, ingredients: [{ item: Item.CARVAO, count: 9 }], station: 'workbench', world: 'orvalis' },
+  { id: 'carvao-do-bloco', name: 'Carvão (do bloco)', group: 'materiais', result: { item: Item.CARVAO, count: 9 }, ingredients: [{ item: Item.BLOCO_CARVAO, count: 1 }], station: 'personal', world: 'orvalis' },
   { id: 'laje-pedra', name: 'Laje de Pedra', group: 'construcao', result: { item: Item.LAJE_PEDRA, count: 6 }, ingredients: [{ item: Item.PEDRA_LISA, count: 3 }], station: 'workbench', world: 'orvalis' },
 ];
 export const recipeById = (id: string): Recipe | undefined => RECIPES.find((r) => r.id === id);

diff --git a/src/titan/furnace.ts b/src/titan/furnace.ts
@@ -17,7 +17,7 @@ export const COOK_TIME_S = 10;
 export const FUEL_TIME_S: Readonly<Record<number, number>> = {
   [Item.EMBER]: 40, [Item.EMBER_BLOCK]: 360, // Titã (braseiro)
   // Orvalis (Fornalha, ADR 0120): segundos de queima da Minecraft Wiki — carvão vegetal 80, tora/tábuas/Mesa de Carpintaria 15, haste 5 (os itens dos dois mundos nunca se misturam, ADR 0114)
-  [Item.CARVAO_VEGETAL]: 80, [Item.LOG_OAK]: 15, [Item.LOG_CHERRY]: 15, [Item.LOG_BIRCH]: 15, [Item.TABUA_CARVALHO]: 15, [Item.TABUA_CEREJEIRA]: 15, [Item.TABUA_BETULA]: 15, [Item.MESA_CARPINTARIA]: 15, [Item.HASTE]: 5,
+  [Item.CARVAO_VEGETAL]: 80, [Item.CARVAO]: 80, [Item.BLOCO_CARVAO]: 800, [Item.LOG_OAK]: 15, [Item.LOG_CHERRY]: 15, [Item.LOG_BIRCH]: 15, [Item.TABUA_CARVALHO]: 15, [Item.TABUA_CEREJEIRA]: 15, [Item.TABUA_BETULA]: 15, [Item.MESA_CARPINTARIA]: 15, [Item.HASTE]: 5,
 };
 /** Preparações que ainda cabem na carga acesa (arredondado para cima), para mostrar na tela. */
 export const prepsLeft = (f: FurnaceState): number => Math.ceil(f.burnLeft / COOK_TIME_S - 1e-9);
@@ -127,6 +127,6 @@ export function furnaceFromData(d: unknown, rules: FurnaceRules = BRAZIER_RULES)
   const f = newFurnace();
   const i = unpack(o.i), fu = unpack(o.f);
   f.input = i && accepts('input', i.item, rules.station) ? i : null; f.fuel = fu && accepts('fuel', fu.item) ? fu : null; f.output = unpack(o.o);
-  f.burnTotal = num(o.t, 0, 600); f.burnLeft = Math.min(num(o.b, 0, 600), f.burnTotal); f.cook = num(o.c, 0, COOK_TIME_S);
+  f.burnTotal = num(o.t, 0, 800); f.burnLeft = Math.min(num(o.b, 0, 800), f.burnTotal); f.cook = num(o.c, 0, COOK_TIME_S);
   return f;
 }

diff --git a/src/titan/orvalis/generator.test.ts b/src/titan/orvalis/generator.test.ts
@@ -17,7 +17,7 @@ describe('Orvalis em voxel — gerador (ADR 0105)', () => {
 
   it('só devolve ids de bloco conhecidos e rocha-mãe no fundo', () => {
     const g = new OrvalisGenerator(42);
-    const ok = new Set<number>([T.AIR, T.LAKE, T.BEDROCK, T.GRASS, T.DIRT, T.STONE, T.BEACH, T.LOG_OAK, T.LEAVES_OAK, T.LOG_CHERRY, T.LEAVES_CHERRY, T.LOG_BIRCH, T.LEAVES_BIRCH]);
+    const ok = new Set<number>([T.AIR, T.LAKE, T.BEDROCK, T.GRASS, T.DIRT, T.STONE, T.BEACH, T.LOG_OAK, T.LEAVES_OAK, T.LOG_CHERRY, T.LEAVES_CHERRY, T.LOG_BIRCH, T.LEAVES_BIRCH, T.COAL_ORE]); // v2: minério de carvão (ADR 0122)
     for (let x = -64; x < 64; x += 3) for (let z = -64; z < 64; z += 3) for (let y = Y_MIN; y <= 130; y += 2) expect(ok.has(g.blockAt(x, y, z))).toBe(true);
     expect(g.blockAt(5, Y_MIN, 5)).toBe(T.BEDROCK);
     expect(g.blockAt(5, Y_MAX, 5)).toBe(T.AIR);

diff --git a/src/titan/actions.ts b/src/titan/actions.ts
@@ -434,6 +434,7 @@ function breakOrCollectBlock(s: TitanSession, hit: Hit): ActionResult {
   if (direct && !s.inventory.canAdd(item, count)) return FULL;
   if (!s.volume.remove(x, y, z)) return { ok: false };
   if (direct) s.inventory.add(item, count);
+  else if (block === T.COAL_ORE && !isPick(s.inventory.get(s.selected)?.item)) { /* Wiki: o minério de carvão só dropa com picareta (qualquer uma, ADR 0122) */ }
   else spillBlock(s, item, count, x, y, z); // ADR 0082: o bloco comum cai no chão e é recolhido por proximidade
   if (block === T.GRASS) { const seed = wildSeedAt(x, y, z); if (seed !== null) spillBlock(s, seed, 1, x, y, z); } // semente silvestre da grama (ADR 0113)
   if (isBrazier(block) || isFurnace(block)) spillFurnace(s, x, y, z); // o conteúdo do braseiro ou da fornalha cai no chão

diff --git a/src/titan/sounds.ts b/src/titan/sounds.ts
@@ -10,6 +10,7 @@ export type SurfaceMaterial = 'rock' | 'sand' | 'ice';
 export function surfaceOf(block: number | undefined): SurfaceMaterial | null {
   if (block !== undefined && isWall(block)) return 'rock'; // mureta de pedra (ADR 0110)
   if (block !== undefined && isFurnace(block)) return 'rock'; // fornalha do Orvalis (ADR 0120)
+  if (block === T.COAL_ORE || block === T.COAL_BLOCK) return 'rock'; // carvão do Orvalis (ADR 0122)
   if (block !== undefined && isTorch(block)) return 'sand'; // tocha (ADR 0121): madeira leve, sem timbre próprio ainda
   if (block !== undefined && block >= T.DOOR && block <= T.DOOR_LAST) return 'sand'; // a porta de junco soa como o resto do junco (ADR 0102)
   switch (block) {

diff --git a/scripts/make-titan-arte32.py b/scripts/make-titan-arte32.py
@@ -19,7 +19,7 @@ BASE = 'src/assets/titan-hotbar-sprites-16px.webp'
 SRC = 'assets-src/titan/arte32/'
 SRC16 = 'assets-src/titan/arte16/'  # armas, ferramentas e itens de 16 × 16 px (ADR 0097): `itens.json` diz qual item usa qual arquivo
 SRC_ORV = 'assets-src/orvalis-voxel/icones32/'  # blocos do Orvalis em voxel (ADR 0105; `make-orvalis-voxel-arte.py`): itens 42–51
-ORV_ICONS = {42: 'terra_com_grama', 43: 'terra', 44: 'pedra', 45: 'areia_da_praia', 46: 'tora_de_carvalho', 47: 'folhas_de_carvalho', 48: 'tora_de_cerejeira', 49: 'folhas_de_cerejeira', 50: 'tora_de_betula', 51: 'folhas_de_betula', 52: 'tabuas_de_carvalho', 53: 'tabuas_de_cerejeira', 54: 'tabuas_de_betula', 56: 'mesa_de_carpintaria', 57: 'pedra_lisa', 58: 'tijolo_de_pedra', 59: 'laje_de_pedra', 60: 'degrau_de_pedra', 61: 'mureta_de_pedra', 62: 'terra_arada_seca', 63: 'terra_arada_umida', 64: 'caminho_de_terra', 65: 'terra_infertil', 66: 'bloco_de_argila', 67: 'bloco_de_tijolos', 83: 'fornalha'}
+ORV_ICONS = {42: 'terra_com_grama', 43: 'terra', 44: 'pedra', 45: 'areia_da_praia', 46: 'tora_de_carvalho', 47: 'folhas_de_carvalho', 48: 'tora_de_cerejeira', 49: 'folhas_de_cerejeira', 50: 'tora_de_betula', 51: 'folhas_de_betula', 52: 'tabuas_de_carvalho', 53: 'tabuas_de_cerejeira', 54: 'tabuas_de_betula', 56: 'mesa_de_carpintaria', 57: 'pedra_lisa', 58: 'tijolo_de_pedra', 59: 'laje_de_pedra', 60: 'degrau_de_pedra', 61: 'mureta_de_pedra', 62: 'terra_arada_seca', 63: 'terra_arada_umida', 64: 'caminho_de_terra', 65: 'terra_infertil', 66: 'bloco_de_argila', 67: 'bloco_de_tijolos', 83: 'fornalha', 88: 'bloco_de_carvao'}
 OUT_ITEMS, OUT_REED = 'src/assets/titan-itens-32px.webp', 'src/assets/titan-junco-variantes-32px.webp'
 OUT_LAKE = {16: 'src/assets/titan-lago-16px.webp', 8: 'src/assets/titan-lago-8px.webp'}  # a água do mundo: 16 px (padrão) e 8 px (isométrica), ADR 0106
 NEW = {  # id do item -> arte de 32 px

diff --git a/scripts/make-orvalis-voxel-arte.py b/scripts/make-orvalis-voxel-arte.py
@@ -187,6 +187,7 @@ def main() -> None:
         'mesa_de_carpintaria': ('mesa-topo', 'mesa-lateral', 'mesa-frente'),
         'pedra_lisa': ('pedra-lisa', 'pedra-lisa'), 'tijolo_de_pedra': ('tijolo-pedra', 'tijolo-pedra'), 'laje_de_pedra': ('laje-topo', 'laje-face'),
         'terra_arada_seca': ('terra-arada-seca-topo', 'terra-arada-seca-lateral'), 'terra_arada_umida': ('terra-arada-umida-topo', 'terra-arada-umida-lateral'), 'caminho_de_terra': ('caminho-topo', 'caminho-lateral'),
+        'bloco_de_carvao': ('bloco-carvao', 'bloco-carvao'),  # item 88 (ADR 0122)
         'fornalha': ('fornalha-topo', 'fornalha-lateral', 'fornalha-frente-apagada'),  # item 83 (ADR 0120)
         'terra_infertil': ('terra-infertil', 'terra-infertil'), 'bloco_de_argila': ('bloco-argila', 'bloco-argila'), 'bloco_de_tijolos': ('bloco-tijolos', 'bloco-tijolos'),  # ADR 0111
     }
